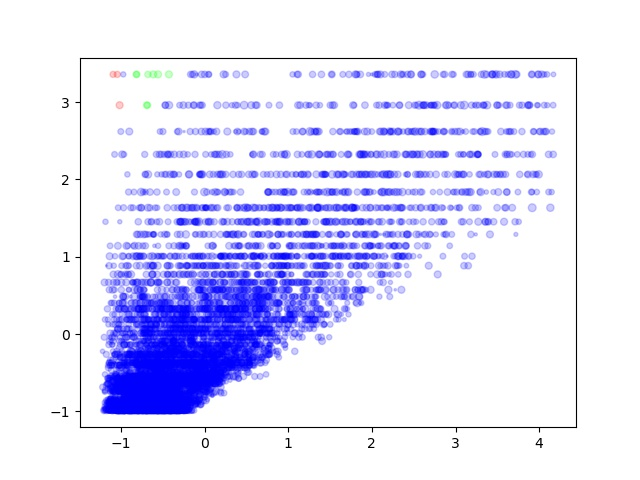
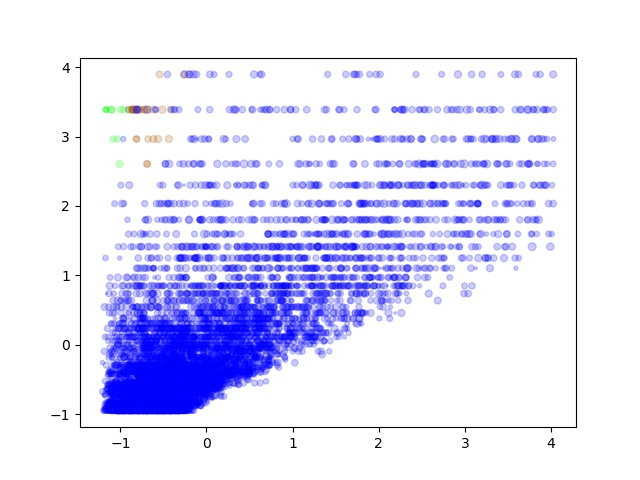
update

diff --git a/bin/pcnaDeep/refiner.py b/bin/pcnaDeep/refiner.py
@@ -407,13 +407,12 @@ class Refiner:
         for i in range(len(pred_pos)):
             if sample_id[i,0] in mt_dic.keys():
                 if sample_id[i,1] in mt_dic[sample_id[i,0]]['daug'].keys():
-                    pred_pos[i] = 0.5
-                    print('in')
+                    pred_pos[i] += 0.5
         import matplotlib.pyplot as plt
         plt.scatter(ipts[:,0], ipts[:,1], c=pred_pos, s=(- min(ipts[:,2]) + ipts[:,2])*5, alpha=0.2, cmap='brg')
         plt.savefig('./test.jpg')
-        print(mt_dic)
-        print(sample_id[np.where(np.argmax(res, axis=1)==1)[0]])
+        #print(mt_dic)
+        #print(sample_id[np.where(np.argmax(res, axis=1)==1)[0]])
 
         parent_pool = list(np.unique(sample_id[:, 0]))
         cost_r_idx = np.array([val for val in parent_pool for i in range(2)])
